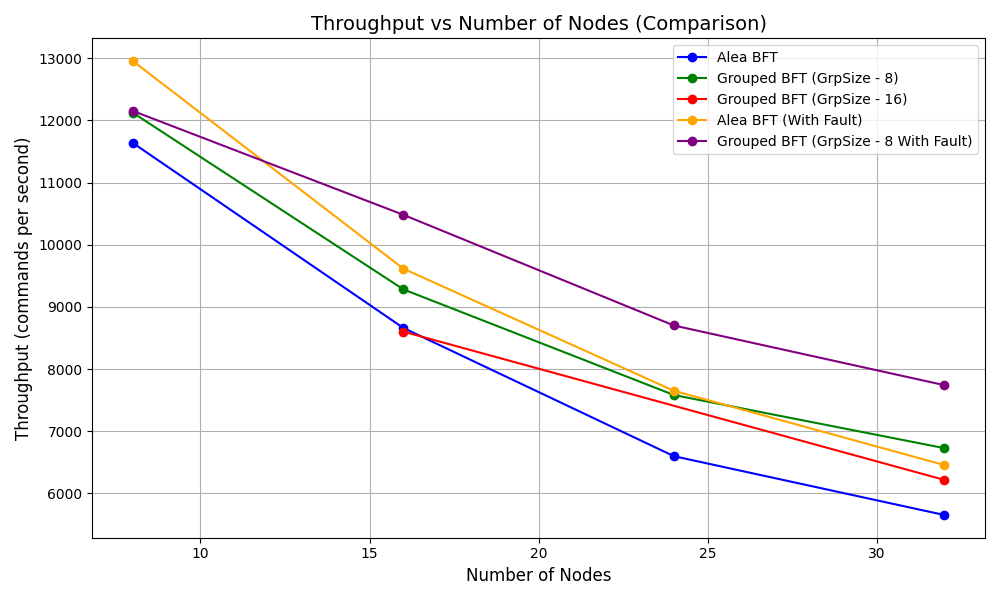
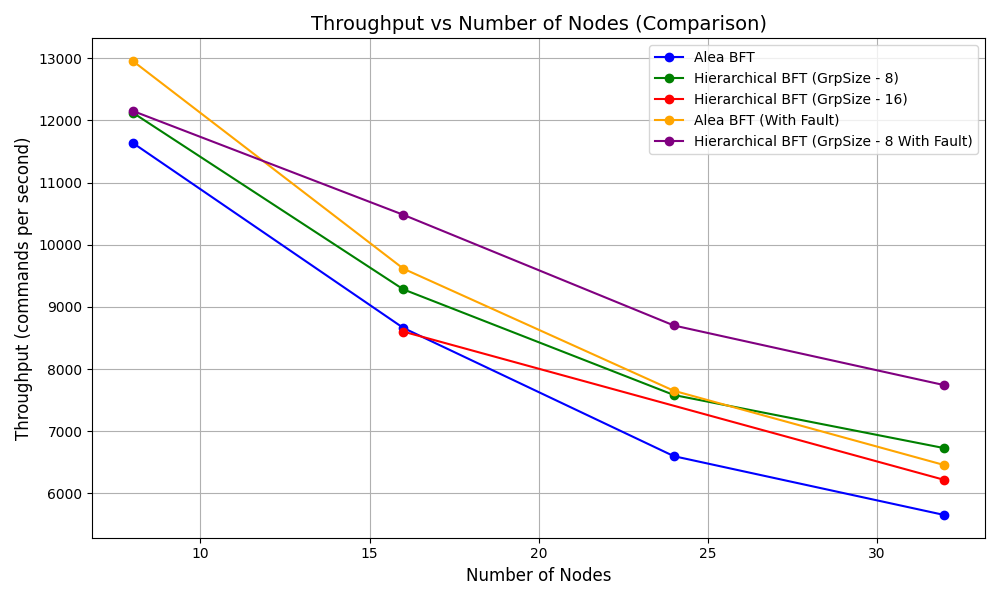
updated graphs

Changed region(s): [[0.651, 0.09, 0.899, 0.27], [0.899, 0.21, 0.961, 0.24]]

diff --git a/thr_comparison.py b/thr_comparison.py
@@ -74,33 +74,33 @@ def plot_throughput_vs_nodes(filepaths, labels, colors, output_file):
 #     plot_throughput_vs_nodes(filepaths, labels, colors, output_file)
 
 if __name__ == "__main__":
-    # File paths to your throughput data files
-    filepaths = [
-        "results/throughputExp_cl_alea_bft.txt",
-        "results/throughputExp_cl_grouped_bft_8.txt",
-        "results/throughputExp_cl_grouped_bft_16.txt",
-        "results/throughputExp_cl_alea_bft_fault.txt",
-        "results/throughputExp_cl_grouped_bft_8_fault.txt",
-    ]
-
-    # Labels and colors for datasets
-    labels = ["Alea BFT", "Grouped BFT (GrpSize - 8)", "Grouped BFT (GrpSize - 16)",
-              "Alea BFT (With Fault)", "Grouped BFT (GrpSize - 8 With Fault)"]
-    colors = ["blue", "green", "red", "orange", "purple"]
-
     # # File paths to your throughput data files
     # filepaths = [
     #     "results/throughputExp_cl_alea_bft.txt",
     #     "results/throughputExp_cl_grouped_bft_8.txt",
     #     "results/throughputExp_cl_grouped_bft_16.txt",
+    #     "results/throughputExp_cl_alea_bft_fault.txt",
+    #     "results/throughputExp_cl_grouped_bft_8_fault.txt",
     # ]
     #
     # # Labels and colors for datasets
-    # labels = ["Alea BFT", "Grouped BFT (GrpSize - 8)", "Grouped BFT (GrpSize - 16)"]
-    # colors = ["blue", "orange", "purple"]
+    # labels = ["Alea BFT", "Hierarchical BFT (GrpSize - 8)", "Hierarchical BFT (GrpSize - 16)",
+    #           "Alea BFT (With Fault)", "Hierarchical BFT (GrpSize - 8 With Fault)"]
+    # colors = ["blue", "green", "red", "orange", "purple"]
+
+    # File paths to your throughput data files
+    filepaths = [
+        "results/throughputExp_cl_alea_bft.txt",
+        "results/throughputExp_cl_grouped_bft_8.txt",
+        "results/throughputExp_cl_grouped_bft_16.txt",
+    ]
+
+    # Labels and colors for datasets
+    labels = ["Alea BFT", "Hierarchical BFT (GrpSize - 8)", "Hierarchical BFT (GrpSize - 16)"]
+    colors = ["blue", "orange", "purple"]
 
     # File path to save the graph
-    output_file = "results/throughput_vs_nodes_comparison_all.png"
+    output_file = "results/throughput_vs_nodes_comparison_no_fault.png"
 
     # Plot the graph
     plot_throughput_vs_nodes(filepaths, labels, colors, output_file)

diff --git a/delay_comparison.py b/delay_comparison.py
@@ -73,33 +73,33 @@ def plot_delay_vs_nodes(filepaths, labels, colors, output_file):
 #     plot_delay_vs_nodes(filepaths, labels, colors, output_file)
 
 if __name__ == "__main__":
-    # File paths to your delay data files
-    filepaths = [
-        "results/delayExp_cl_alea_bft.txt",
-        "results/delayExp_cl_grouped_bft_8.txt",
-        "results/delayExp_cl_grouped_bft_16.txt",
-        "results/delayExp_cl_alea_bft_fault.txt",
-        "results/delayExp_cl_grouped_bft_8_fault.txt",
-    ]
-
-    # Labels and colors for datasets
-    labels = ["Alea BFT", "Grouped BFT (GrpSize - 8)", "Grouped BFT (GrpSize - 16)",
-              "Alea BFT (With Fault)", "Grouped BFT (GrpSize - 8 With Fault)"]
-    colors = ["red", "orange", "green", "blue", "purple"]
-
     # # File paths to your delay data files
     # filepaths = [
     #     "results/delayExp_cl_alea_bft.txt",
     #     "results/delayExp_cl_grouped_bft_8.txt",
     #     "results/delayExp_cl_grouped_bft_16.txt",
+    #     "results/delayExp_cl_alea_bft_fault.txt",
+    #     "results/delayExp_cl_grouped_bft_8_fault.txt",
     # ]
     #
     # # Labels and colors for datasets
-    # labels = ["Alea BFT", "Grouped BFT (GrpSize - 8)", "Grouped BFT (GrpSize - 16)"]
-    # colors = ["red", "green", "orange"]
+    # labels = ["Alea BFT", "Hierarchical BFT (GrpSize - 8)", "Hierarchical BFT (GrpSize - 16)",
+    #           "Alea BFT (With Fault)", "Hierarchical BFT (GrpSize - 8 With Fault)"]
+    # colors = ["red", "orange", "green", "blue", "purple"]
+
+    # File paths to your delay data files
+    filepaths = [
+        "results/delayExp_cl_alea_bft.txt",
+        "results/delayExp_cl_grouped_bft_8.txt",
+        "results/delayExp_cl_grouped_bft_16.txt",
+    ]
+
+    # Labels and colors for datasets
+    labels = ["Alea BFT", "Hierarchical BFT (GrpSize - 8)", "Hierarchical BFT (GrpSize - 16)"]
+    colors = ["red", "green", "orange"]
 
     # File path to save the graph
-    output_file = "results/delay_vs_nodes_comparison_all.png"
+    output_file = "results/delay_vs_nodes_comparison_no_fault.png"
 
     # Plot the graph
     plot_delay_vs_nodes(filepaths, labels, colors, output_file)

diff --git a/delay_comparison_bt.py b/delay_comparison_bt.py
@@ -62,7 +62,7 @@ if __name__ == "__main__":
     ]
 
     # Labels and colors for datasets
-    labels = ["Alea BFT", "Grouped BFT (GrpSize - 8)"]
+    labels = ["Alea BFT", "Hierarchical BFT (GrpSize - 8)"]
     colors = ["orange", "green"]
 
     # File path to save the graph

diff --git a/thr_comparison_bt.py b/thr_comparison_bt.py
@@ -63,7 +63,7 @@ if __name__ == "__main__":
     ]
 
     # Labels and colors for datasets
-    labels = ["Alea BFT", "Grouped BFT (GrpSize - 8)"]
+    labels = ["Alea BFT", "Hierarchical BFT (GrpSize - 8)"]
     colors = ["blue", "green"]
 
     # File path to save the graph
